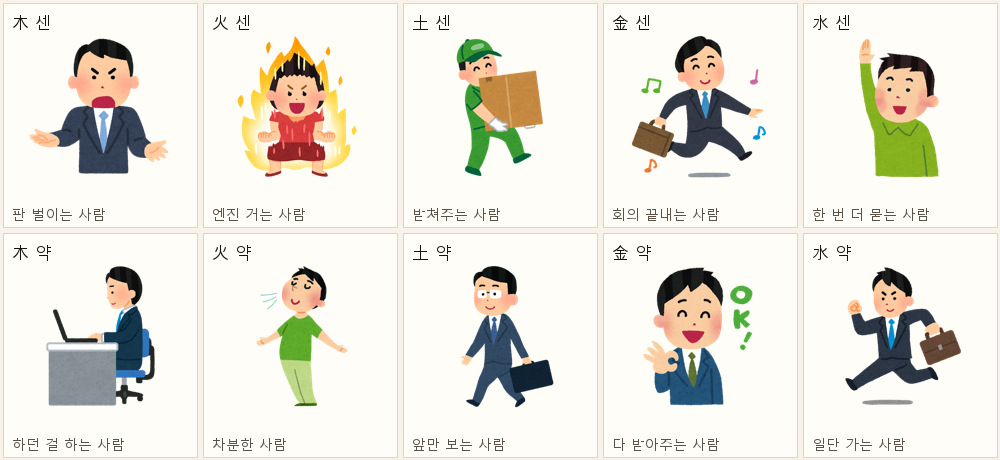
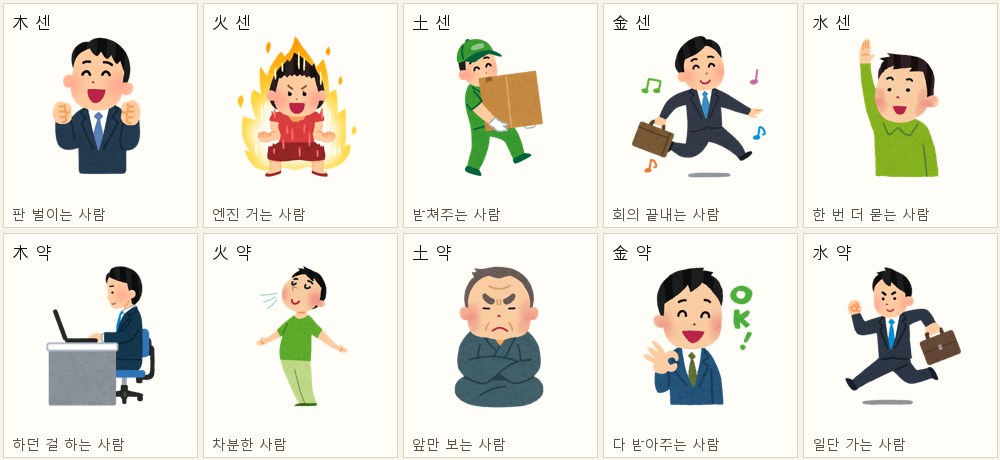
[DESIGN] 판 벌이는 사람과 앞만 보는 사람 표정을 다시 잡는다 (#59)
- 木 센: 주장하는 사람 → 두 주먹 쥐고 활짝 웃는 회사원. 앞엣것은 눈썹이
  올라가서 따지는 쪽으로 읽혔다. 이 자리는 의기양양한 쪽이다
- 土 약: 걸어가는 회사원 → 팔짱 끼고 찌푸린 사람. 담담히 걷는 건 아무 말도
  안 했다. 남 말 안 듣고 제 갈 길 가는 깐깐함이 실려야 한다

Changed region(s): [[0.434, 0.5783, 0.558, 0.8826], [0.031, 0.0913, 0.186, 0.3652]]

diff --git a/src/lib/copy/result.ts b/src/lib/copy/result.ts
@@ -92,12 +92,12 @@ export const illustrationCopy = {
   altByWeak: {
     木: '자리에 앉아 하던 일을 하는 사람',
     火: '숨을 고르는 사람',
-    土: '앞을 보고 걸어가는 회사원',
+    土: '팔짱을 끼고 찌푸린 사람',
     金: 'OK 사인을 내는 회사원',
     水: '가방을 들고 달려 나가는 회사원',
   },
   altByStrong: {
-    木: '두 손을 펴고 주장하는 사람',
+    木: '두 주먹을 쥐고 활짝 웃는 회사원',
     火: '의욕에 불타는 사람',
     土: '웃으며 짐을 나르는 사람',
     金: '가방을 들고 콧노래 부르며 걸어가는 사람',
